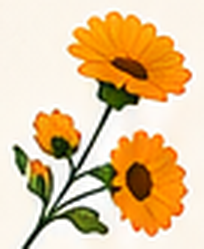
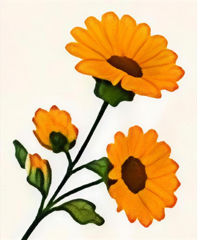
Ostřejší byliny, ikony ke všem produktům, ceny s mezerou, větší drobné písmo
- Byliny zvětšené přes AI upscale (Higgsfield); řebříček překreslený,
  protože upscale z malého originálu vyšel rozmazaný. Ikony do ceníku
  240 px, herbářové archy v hero zvlášť jako JPEG 420 px (assets/herbar).
- Nové kresby ve stejném stylu pro produkty bez ikony: kakao, přeslička,
  argan, babči (bakuchiol), pomeranč, káva se skořicí a neutrální motivy
  pro sérum, odličovací olej, lesk na rty, deodorant a repelent.
  Hodnoty doplněné do sloupce Ikona v Ceníku; seznam ikon v README.
- Ceny česky s mezerou mezi tisíci a nezlomitelnou mezerou před Kč
  (1 180 Kč) v ceníku, souhrnu, košíku i na tlačítku.
- Nejmenší písma o 1–2 px větší (štítky archů, popisky polí, souhrn,
  košík, popisky fotek, latinské názvy v pásu bylin aj.).

diff --git a/styles.css b/styles.css
@@ -84,7 +84,7 @@ h1, h2, h3 {
 .kicker {
   margin: 0;
   font-family: var(--mono);
-  font-size: 12px; letter-spacing: 0.14em; text-transform: uppercase;
+  font-size: 13px; letter-spacing: 0.14em; text-transform: uppercase;
   color: var(--mesicek-svetly);
 }
 .kicker--tmavy { color: var(--hlina); }
@@ -153,7 +153,7 @@ h1, h2, h3 {
   -webkit-text-stroke: .35px currentColor;
 }
 .znacka__sub {
-  font-family: var(--serif); font-size: 11px; font-weight: 500;
+  font-family: var(--serif); font-size: 12px; font-weight: 500;
   letter-spacing: .45em; text-transform: uppercase;
   padding-left: .45em;      /* vyrovná prostrkání vpravo */
 }
@@ -161,7 +161,7 @@ h1, h2, h3 {
 .lista__menu { display: none; margin: 0; padding: 0; list-style: none; gap: 32px; }
 .lista__menu a {
   color: var(--krem); text-decoration: none;
-  font-family: var(--mono); font-size: 12px; letter-spacing: .14em; text-transform: uppercase;
+  font-family: var(--mono); font-size: 13px; letter-spacing: .14em; text-transform: uppercase;
   opacity: .8; transition: opacity .2s;
 }
 .lista__menu a:hover { opacity: 1; }
@@ -170,7 +170,7 @@ h1, h2, h3 {
   display: inline-flex; align-items: center; min-height: 40px; padding: 0 16px;
   border: 1px solid rgba(245, 238, 224, .35); border-radius: 999px;
   color: var(--krem); text-decoration: none; white-space: nowrap;
-  font-family: var(--mono); font-size: 12px; letter-spacing: .04em;
+  font-family: var(--mono); font-size: 13px; letter-spacing: .04em;
   transition: border-color .2s, background-color .2s;
 }
 .lista__tel:hover { border-color: var(--mesicek-svetly); background: rgba(245, 238, 224, .06); }
@@ -264,7 +264,7 @@ h1, h2, h3 {
 .arch__hlava {
   margin: 0; padding: 2px 3px 8px; border-bottom: 1px solid rgba(138, 106, 91, .28);
   display: flex; justify-content: space-between; gap: 8px;
-  font-family: var(--mono); font-size: 9px; line-height: 1.2; letter-spacing: .14em; text-transform: uppercase;
+  font-family: var(--mono); font-size: 10.5px; line-height: 1.2; letter-spacing: .14em; text-transform: uppercase;
   color: var(--hlina);
 }
 
@@ -302,13 +302,13 @@ h1, h2, h3 {
   border: 1px solid rgba(90, 99, 80, .16); pointer-events: none;
 }
 .arch__stitek em {
-  font-family: var(--serif); font-style: italic; font-size: clamp(13px, 3.3vw, 16.5px); line-height: 1.12;
+  font-family: var(--serif); font-style: italic; font-size: clamp(14px, 3.4vw, 17px); line-height: 1.12;
 }
 .arch__stitek em small { font-style: normal; font-size: .72em; color: var(--text-2); }
-.arch__cesky { font-family: var(--serif); font-size: clamp(11px, 2.7vw, 13px); line-height: 1.25; }
+.arch__cesky { font-family: var(--serif); font-size: clamp(12px, 2.9vw, 14px); line-height: 1.25; }
 .arch__celed {
   margin-top: 2px;
-  font-family: var(--mono); font-size: 8.5px; letter-spacing: .12em; text-transform: uppercase; color: var(--text-2);
+  font-family: var(--mono); font-size: 10px; letter-spacing: .12em; text-transform: uppercase; color: var(--text-2);
 }
 
 .pecet {
@@ -318,7 +318,7 @@ h1, h2, h3 {
 }
 .pecet text {
   fill: currentColor;
-  font-family: var(--mono); font-size: 9.6px; letter-spacing: .08em; text-transform: uppercase;
+  font-family: var(--mono); font-size: 10.2px; letter-spacing: .08em; text-transform: uppercase;
 }
 .pecet__kruh {
   transform-box: view-box; transform-origin: 50% 50%;
@@ -343,7 +343,7 @@ h1, h2, h3 {
   font-family: var(--serif); font-size: clamp(15px, .85rem + .45vw, 20px); font-weight: 400;
 }
 .pas__skupina span::after { content: '✦'; margin: 0 22px 0 14px; font-size: .6em; color: var(--mesicek); align-self: center; }
-.pas__skupina i { font-size: .62em; color: var(--text-2); }
+.pas__skupina i { font-size: .72em; color: var(--text-2); }
 
 @keyframes posun { to { transform: translateX(-50%); } }
 
@@ -412,7 +412,7 @@ h1, h2, h3 {
 }
 .foto img { display: block; mix-blend-mode: multiply; }
 .foto figcaption {
-  font-family: var(--mono); font-size: 10.5px; letter-spacing: .08em; text-transform: uppercase; color: var(--text-2);
+  font-family: var(--mono); font-size: 12px; letter-spacing: .08em; text-transform: uppercase; color: var(--text-2);
   text-align: center; max-width: 24ch;
 }
 .foto--lahev { transform: rotate(-3deg); }
@@ -437,7 +437,7 @@ h1, h2, h3 {
   flex: none; width: 26px; height: 26px; border-radius: 50%;
   display: inline-flex; align-items: center; justify-content: center;
   border: 1px solid var(--mesicek); color: var(--hlina);
-  font-family: var(--mono); font-size: 12px;
+  font-family: var(--mono); font-size: 13px;
 }
 
 .katalog { display: flex; flex-direction: column; gap: 36px; }
@@ -491,13 +491,13 @@ h1, h2, h3 {
   margin: 0;
   font-family: var(--serif); font-size: 21px; font-weight: 450; line-height: 1.2;
 }
-.polozka__popis { margin: 6px 0 0; font-size: 14.5px; line-height: 1.5; color: var(--text-2); max-width: 54ch; }
+.polozka__popis { margin: 6px 0 0; font-size: 15px; line-height: 1.5; color: var(--text-2); max-width: 54ch; }
 
 .varianty { flex: 1 1 300px; display: flex; flex-wrap: wrap; gap: 14px 24px; justify-content: flex-end; }
 .varianta { display: flex; flex-direction: column; gap: 8px; align-items: flex-end; }
 .varianta__label {
   margin: 0;
-  font-family: var(--mono); font-size: 12.5px; letter-spacing: .03em; color: var(--text-2);
+  font-family: var(--mono); font-size: 13.5px; letter-spacing: .03em; color: var(--text-2);
 }
 .varianta__cena { color: var(--inkoust); font-weight: 500; }
 
@@ -544,7 +544,7 @@ h1, h2, h3 {
 .souhrn::before {
   content: 'Souhrn'; display: block; margin-bottom: 16px; padding-bottom: 12px;
   border-bottom: 1px dashed var(--linka-silna);
-  font-family: var(--mono); font-size: 11px; letter-spacing: .14em; text-transform: uppercase; color: var(--hlina);
+  font-family: var(--mono); font-size: 12px; letter-spacing: .14em; text-transform: uppercase; color: var(--hlina);
 }
 .souhrn__prazdno { margin: 0; font-size: 15px; color: var(--text-2); }
 .souhrn__radek {
@@ -576,7 +576,7 @@ h1, h2, h3 {
 .field { display: flex; flex-direction: column; gap: 7px; margin: 0; padding: 0; border: none; min-width: 0; }
 .field label, .field legend {
   padding: 0;
-  font-family: var(--mono); font-size: 11.5px; letter-spacing: .1em; text-transform: uppercase;
+  font-family: var(--mono); font-size: 12.5px; letter-spacing: .1em; text-transform: uppercase;
   color: var(--text-2);
 }
 .field legend { margin-bottom: 7px; }
@@ -629,7 +629,7 @@ h1, h2, h3 {
 /* Adresa jen při zaslání poštou */
 .form:has(#p-osobne:checked) .field:has(#adresa) { display: none; }
 
-.gdpr { margin: 0; font-size: 13px; color: var(--text-2); }
+.gdpr { margin: 0; font-size: 14px; color: var(--text-2); }
 
 /* ---------- ROZCESTNÍK KATEGORIÍ ---------- */
 
@@ -688,7 +688,7 @@ h1, h2, h3 {
 }
 .kosik__text { margin: 0; min-width: 0; display: flex; flex-direction: column; gap: 1px; font-size: 15px; line-height: 1.3; white-space: nowrap; }
 .kosik__popisek {
-  font-family: var(--mono); font-size: 10.5px; letter-spacing: .14em; text-transform: uppercase;
+  font-family: var(--mono); font-size: 11.5px; letter-spacing: .14em; text-transform: uppercase;
   color: var(--mesicek-svetly);
 }
 .kosik__text strong { font-weight: 600; }
@@ -707,7 +707,7 @@ h1, h2, h3 {
 .znacka--velka .znacka__sub { font-size: clamp(13px, 1.4vw, 17px); }
 .paticka__kontakt { display: flex; flex-direction: column; gap: 6px; }
 .paticka__label {
-  margin: 0; font-family: var(--mono); font-size: 12px; letter-spacing: .14em; text-transform: uppercase;
+  margin: 0; font-family: var(--mono); font-size: 13px; letter-spacing: .14em; text-transform: uppercase;
   color: var(--mesicek-svetly);
 }
 .paticka__tel { margin: 0; font-family: var(--serif); font-size: clamp(28px, 1.2rem + 1.8vw, 40px); font-weight: 400; }

diff --git a/app.js b/app.js
@@ -101,6 +101,9 @@ function vykresliChybuKatalogu() {
 /* ----------------------------------------------------------------- */
 
 const mnozstvi = {};          // { idVarianty: počet }
+
+// Částka česky: tisíce oddělené nezlomitelnou mezerou a „Kč“ se neodtrhne — 1 180 Kč
+const kc = (n) => Number(n).toLocaleString('cs-CZ', { maximumFractionDigits: 2 }).replace(/\s/g, '\u00a0') + '\u00a0Kč';
 const nacteno = Date.now();   // časová past proti robotům
 
 const el = (tag, cls, text) => {
@@ -156,7 +159,7 @@ function stepper(polozka, v) {
 
   const popisek = el('p', 'varianta__label');
   popisek.append(document.createTextNode(v.label + ' · '));
-  popisek.append(el('span', 'varianta__cena', v.cena + ' Kč'));
+  popisek.append(el('span', 'varianta__cena', kc(v.cena)));
   box.append(popisek);
 
   const ovladac = el('div', 'stepper');
@@ -212,14 +215,14 @@ function vykresliSouhrn() {
   polozky.forEach((p) => {
     const radek = el('div', 'souhrn__radek');
     radek.append(el('p', null, p.nazev + ' · ' + p.varianta));
-    radek.append(el('p', null, p.pocet + '×  ' + p.celkem + ' Kč'));
+    radek.append(el('p', null, p.pocet + '×  ' + kc(p.celkem)));
     cil.append(radek);
   });
 
   const celkem = polozky.reduce((s, p) => s + p.celkem, 0);
   const paticka = el('div', 'souhrn__celkem');
   paticka.append(el('p', 'popisek', 'Celkem'));
-  paticka.append(el('p', 'castka', celkem + ' Kč'));
+  paticka.append(el('p', 'castka', kc(celkem)));
   cil.append(paticka);
 
   document.getElementById('odeslat').disabled = false;
@@ -248,7 +251,7 @@ function vykresliPrehled(polozky) {
   const kosik = document.getElementById('kosik');
   if (kosik) {
     document.getElementById('kosik-pocet').textContent = kusu + ' ' + slovoKus(kusu);
-    document.getElementById('kosik-celkem').textContent = celkem + ' Kč';
+    document.getElementById('kosik-celkem').textContent = kc(celkem);
     const videt = kusu > 0 && naObrazovce.size === 0;
     kosik.classList.toggle('je-videt', videt);
     kosik.setAttribute('aria-hidden', String(!videt));
@@ -262,7 +265,7 @@ function vykresliPrehled(polozky) {
     o.pocet.hidden = !n;
   });
 
-  document.getElementById('odeslat').textContent = kusu ? 'Odeslat objednávku · ' + celkem + ' Kč' : 'Odeslat objednávku';
+  document.getElementById('odeslat').textContent = kusu ? 'Odeslat objednávku · ' + kc(celkem) : 'Odeslat objednávku';
 }
 
 /* Rozcestník kategorií nad ceníkem; zvýrazní kategorii, kterou máte před sebou. */

diff --git a/index.html b/index.html
@@ -46,7 +46,7 @@
       <figure class="arch arch--1">
         <p class="arch__hlava"><span>Herbář Apatiqa</span><span>Nº 01</span></p>
         <div class="arch__obraz">
-          <img src="assets/levandulova.png" alt="" width="228" height="246">
+          <img src="assets/herbar/levandulova.jpg" alt="" width="389" height="420">
           <span class="arch__paska" aria-hidden="true"></span>
         </div>
         <figcaption class="arch__stitek">
@@ -58,7 +58,7 @@
       <figure class="arch arch--2">
         <p class="arch__hlava"><span>Herbář Apatiqa</span><span>Nº 02</span></p>
         <div class="arch__obraz">
-          <img src="assets/mesickova.png" alt="" width="204" height="249">
+          <img src="assets/herbar/mesickova.jpg" alt="" width="344" height="420">
           <span class="arch__paska" aria-hidden="true"></span>
         </div>
         <figcaption class="arch__stitek">
@@ -70,7 +70,7 @@
       <figure class="arch arch--3">
         <p class="arch__hlava"><span>Herbář Apatiqa</span><span>Nº 03</span></p>
         <div class="arch__obraz">
-          <img src="assets/hermankova.png" alt="" width="189" height="204">
+          <img src="assets/herbar/hermankova.jpg" alt="" width="389" height="420">
           <span class="arch__paska" aria-hidden="true"></span>
         </div>
         <figcaption class="arch__stitek">

diff --git a/README.md b/README.md
@@ -304,6 +304,22 @@ na webu z nich je jedna karta s více cenami.
 | **Pořadí** | menší číslo = výš na stránce. Čísluje se po 10 (10, 20, 30 …), aby šlo něco vložit mezi, např. 15. Pořadí sekcí určuje nejmenší číslo v sekci |
 | **Ks z dávky** | kolik kusů vyjde z jedné várky. Na webu se nezobrazuje, počítá s ním list K výrobě |
 
+**Ikony, které na webu jsou** (do sloupce Ikona se píše přesně takhle):
+
+- byliny: `mesickova.png`, `hermankova.png`, `levandulova.png`, `repikova.png`,
+  `rozmarynova.png`, `tymianova.png`, `rebrickova.png`, `koprivova.png`,
+  `trezalkova.png`, `kostivalova.png`, `kastanova.png`, `preslicka.png`,
+  `babci.png` (rostlina, ze které je bakuchiol)
+- suroviny: `kakao.png`, `argan.png`, `pomeranc.png`, `kava-skorice.png`
+- obecné motivy: `lucni-kviti.png`, `kapka-oleje.png`, `kapky-na-listu.png`,
+  `zelena-snitka.png`, `svazek-bylin.png`
+
+Obecné motivy jsou u produktů, u kterých název neříká hlavní surovinu
+(sérum, odličovací olej, lesk na rty, deodorant, repelent). Kdyby měly
+mít bylinu, ze které jsou, přepiš Ikonu na tu bylinu, nebo si nech
+nakreslit novou (Daniel). Větší verze tří bylin pro herbářové archy
+nahoře na stránce jsou v `assets/herbar/`.
+
 ### Běžné úkony
 
 - **Změna ceny:** přepiš číslo ve sloupci Cena. Dřívějších objednávek se to
